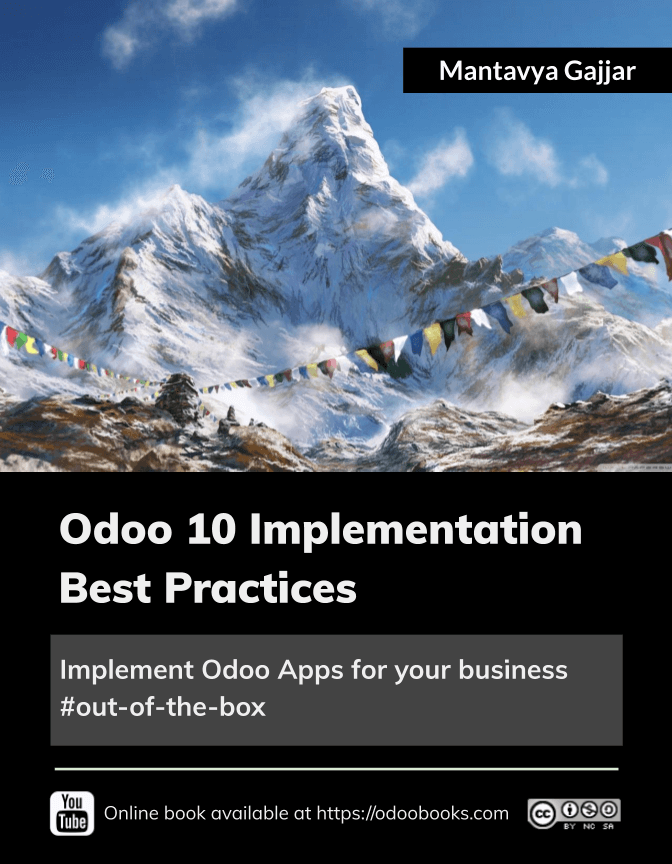
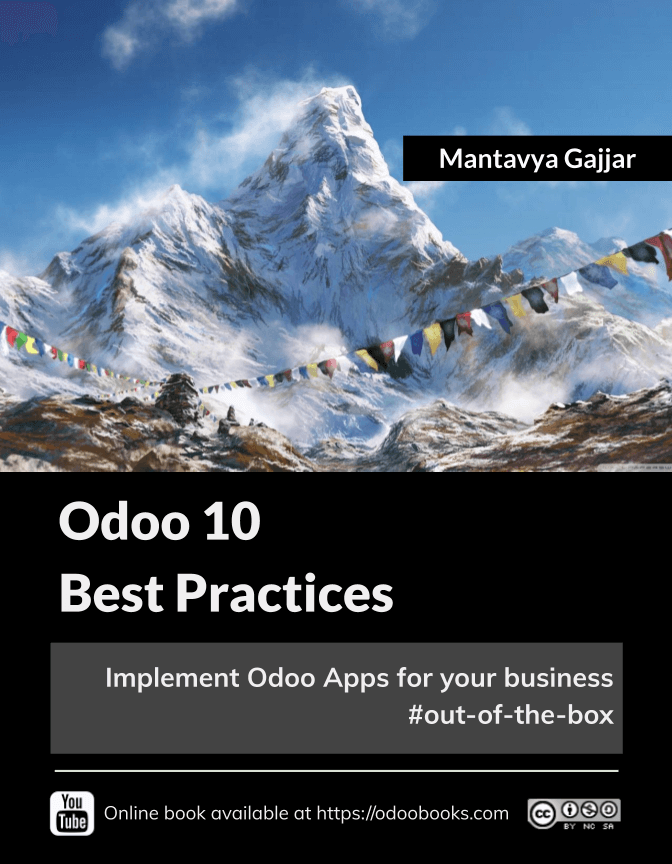
[IMP]: mark v10.0 as out dated, fix some of the images and content

diff --git a/docs/index.rst b/docs/index.rst
@@ -7,21 +7,21 @@
    single: Home
 
 
-Odoo 10 Implementation Best Practices
-=====================================
+Odoo 10 Best Practices
+======================
 This book is dedicated for entrepreneur who wants to implement all-in-one
 business application out-of-the box for their business.
 
-**Odoo 10 Implementation Best Practices Book** is an online book written based on Community and Enterprise
+**Odoo 10 Best Practices Book** is an online book written based on Community and Enterprise
 Edition. This book covers best implementation practice for most used
 applications such as Sales, Purchase, Inventory, Financial Accounting and
 Manufacturing.
 
-.. note:: Please comment on the page below, if you have any question related to
-  that topic. You can also send an email to mail@mantavyagajjar.in to propose new
-  topics you would like to have on the book.
+.. warning:: Odoo 10.0 is unsupported with the release of Odoo 13.0, Odoo supports
+  last 3 LTS version only. You should migrate to upper version with
+  `Odoo Upgrade Service <https://upgrade.odoo.com/database/upload>`_
 
-  You can subscribe to `Youtube <https://www.youtube.com/c/MantavyaGajjar>`_
+.. note:: You can subscribe to `Youtube <https://www.youtube.com/c/MantavyaGajjar>`_
   channel to receive an instance update about the new videos and pages on this book.
 
 Search the topics by :ref:`genindex` or start reading the book by :ref:`toc`.

diff --git a/docs/about.rst b/docs/about.rst
@@ -1,24 +1,23 @@
 .. _about:
 
-
 .. index::
    single: About Online Book
-   single: Odoo 10 Implementation Best Practices
+   single: Odoo 10 Best Practices
    single: About Author
    single: About Reviewer
 
-===========================================
-About Odoo 10 Implementation Best Practices
-===========================================
+============================
+About Odoo 10 Best Practices
+============================
 
 .. image:: images/openerp-book-small.png
    :height: 300px
    :width: 240 px
    :scale: 100 %
-   :alt: Odoo 10 Implementation Best Practices
+   :alt: Odoo 10 Best Practices
    :align: right
 
-Odoo 10 Implementation Best Practices book is dedicated for functional consultants or entrepreneur
+Odoo 10 Best Practices book is dedicated for functional consultants or entrepreneur
 who wants to implement or use odoo online all-in-one business
 application out-of-the box. This is an online book written based on Odoo
 **Community** and **Enterprise** Edition. This book covers best
@@ -124,7 +123,6 @@ The Odoo online book covers the implementation best practices and
 approach to configure the business applications out-of-the-box. With
 this approach you can configure your Odoo online instance or Odoo.sh or
 locally installed Odoo on your server.
-
 
 Page structure
 ==============

diff --git a/docs/toc.rst b/docs/toc.rst
@@ -5,7 +5,7 @@ Table of Content
 This book is dedicated for entrepreneur who wants to implement all-in-one
 business application out-of-the box for their business.
 
-**Odoo 10 Implementation Best Practices Book** is an online book written based on Community and Enterprise
+**Odoo 10 Best Practices Book** is an online book written based on Community and Enterprise
 Edition. This book covers best implementation practice for most used
 applications such as Sales, Purchase, Inventory, Financial Accounting and
 Manufacturing.
